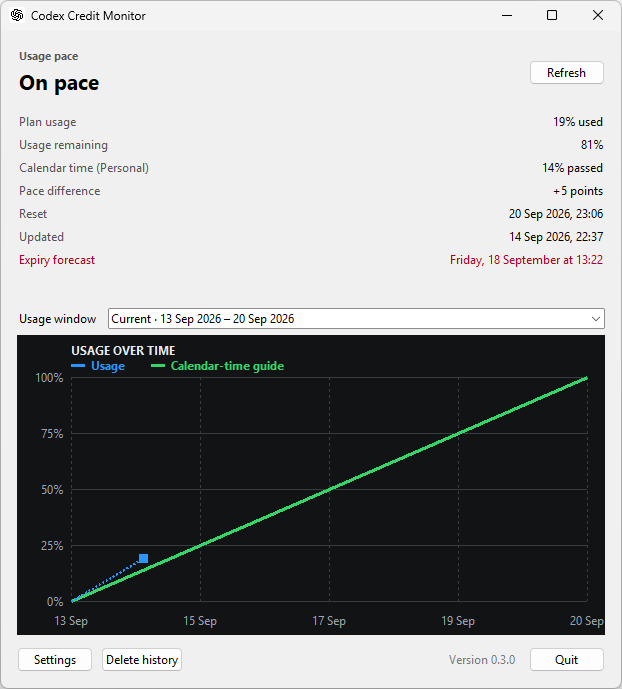
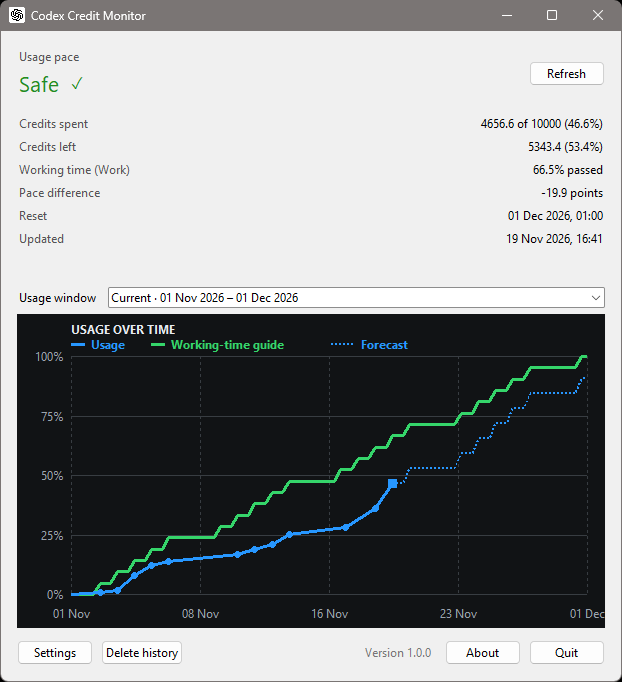
docs: update README screenshot for Work mode

diff --git a/README.md b/README.md
@@ -6,9 +6,10 @@ the current window resets. It refreshes when it opens and then every 15 minutes.
 If the token file is unavailable, it retries every 2 minutes until it can read
 the login again, including when the selected WSL distribution is stopped.
 
-![Codex Credit Monitor showing plan usage, an expiry forecast, and the usage history graph](docs/images/usage-monitor.png)
+![Usage over time in Work mode, with recorded credit usage in blue, the working-time guide in green, and a dotted blue forecast through the reset](docs/images/usage-monitor.png)
 
-*Example in Personal mode, captured in version 0.3.0.*
+*Work mode in version 1.0.0 shows a Safe pace. The account has used 46.6% of its
+credits with 66.5% of the period’s working time elapsed.*
 
 ## Before you start
 
